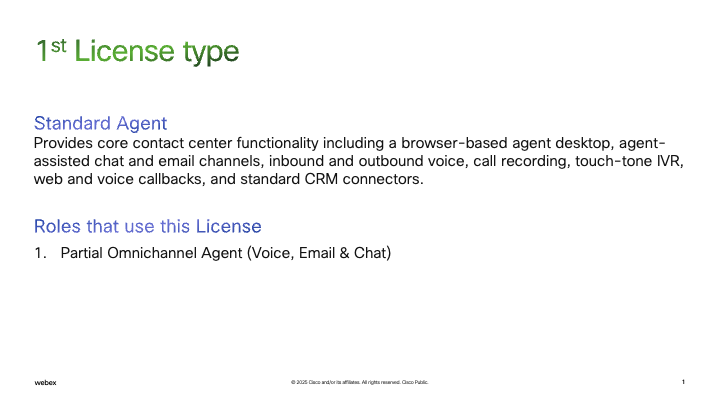
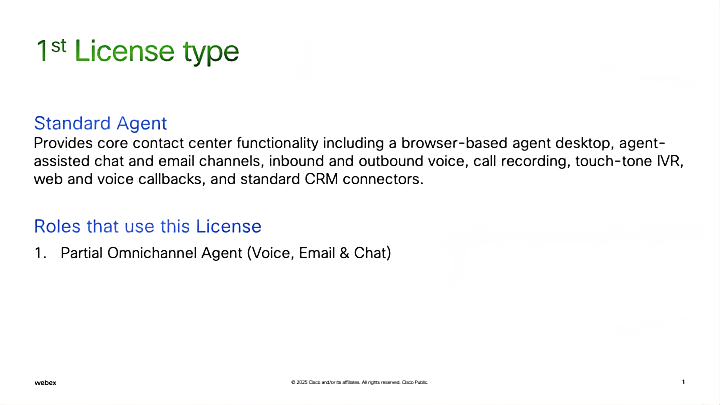
Sized Slides

diff --git a/docs/Lab1.html b/docs/Lab1.html
@@ -9,7 +9,7 @@ img {vertical-align: middle;}
 
 /* Slideshow container */
 .slideshow-container {
-  max-width: 1000px;
+  max-width: 720px;
   position: relative;
   margin: auto;
 }

diff --git a/docs/Lab2.html b/docs/Lab2.html
@@ -9,7 +9,7 @@ img {vertical-align: middle;}
 
 /* Slideshow container */
 .slideshow-container {
-  max-width: 1000px;
+  max-width: 720px;
   position: relative;
   margin: auto;
 }

diff --git a/docs/Lab3.html b/docs/Lab3.html
@@ -9,7 +9,7 @@ img {vertical-align: middle;}
 
 /* Slideshow container */
 .slideshow-container {
-  max-width: 1000px;
+  max-width: 720px;
   position: relative;
   margin: auto;
 }

diff --git a/docs/Lab4.html b/docs/Lab4.html
@@ -9,7 +9,7 @@ img {vertical-align: middle;}
 
 /* Slideshow container */
 .slideshow-container {
-  max-width: 1000px;
+  max-width: 720px;
   position: relative;
   margin: auto;
 }

diff --git a/docs/Lab5.html b/docs/Lab5.html
@@ -9,7 +9,7 @@ img {vertical-align: middle;}
 
 /* Slideshow container */
 .slideshow-container {
-  max-width: 1000px;
+  max-width: 720px;
   position: relative;
   margin: auto;
 }

diff --git a/docs/Lab6.html b/docs/Lab6.html
@@ -9,7 +9,7 @@ img {vertical-align: middle;}
 
 /* Slideshow container */
 .slideshow-container {
-  max-width: 1000px;
+  max-width: 720px;
   position: relative;
   margin: auto;
 }

diff --git a/docs/Lab7.html b/docs/Lab7.html
@@ -9,7 +9,7 @@ img {vertical-align: middle;}
 
 /* Slideshow container */
 .slideshow-container {
-  max-width: 1000px;
+  max-width: 720px;
   position: relative;
   margin: auto;
 }

diff --git a/docs/Lab8.html b/docs/Lab8.html
@@ -9,7 +9,7 @@ img {vertical-align: middle;}
 
 /* Slideshow container */
 .slideshow-container {
-  max-width: 1000px;
+  max-width: 720px;
   position: relative;
   margin: auto;
 }
